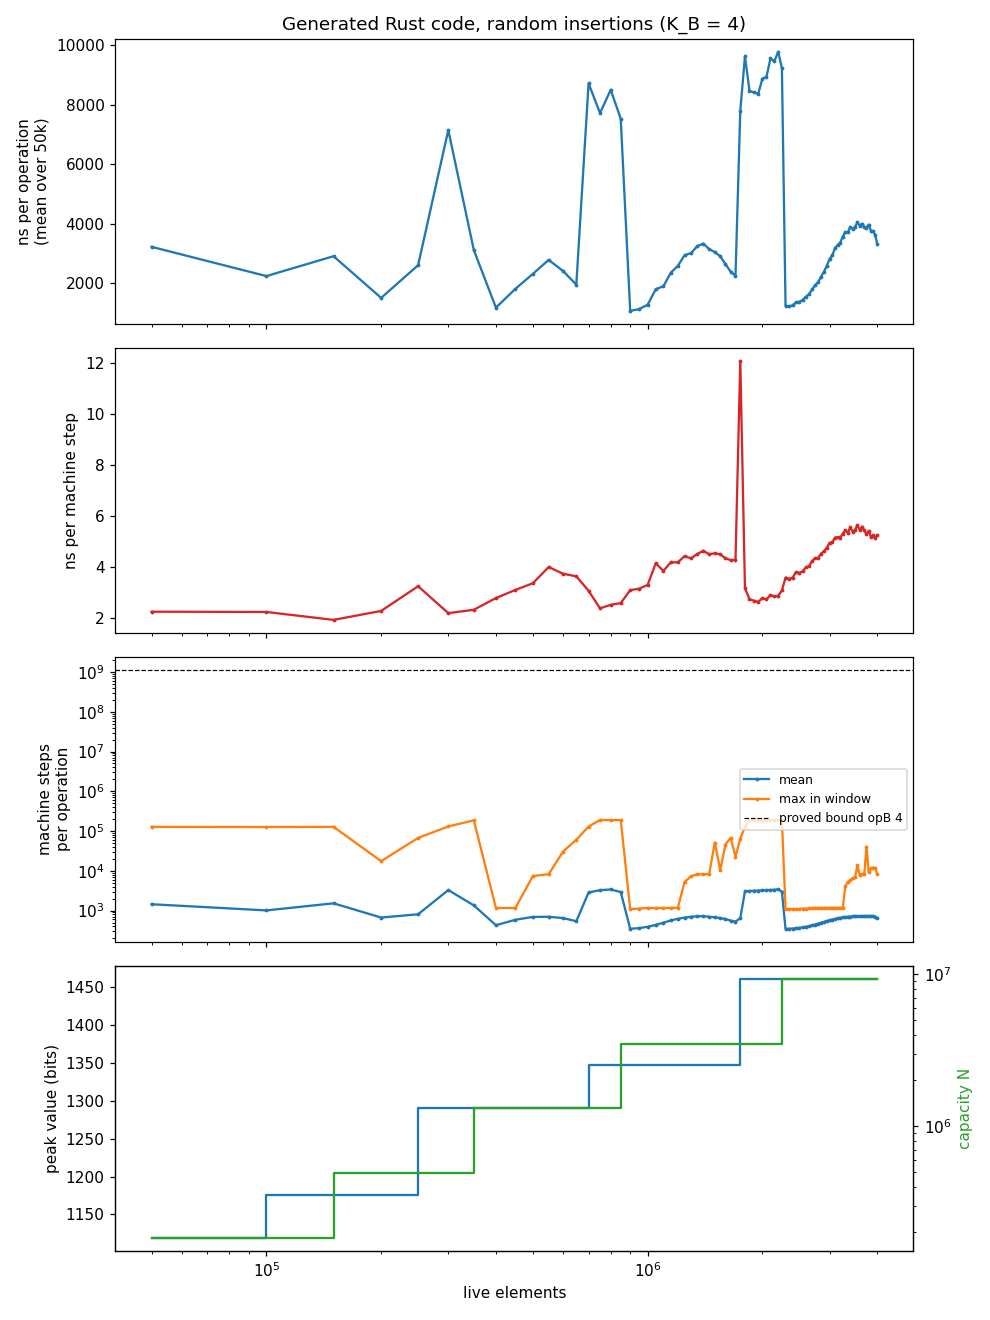
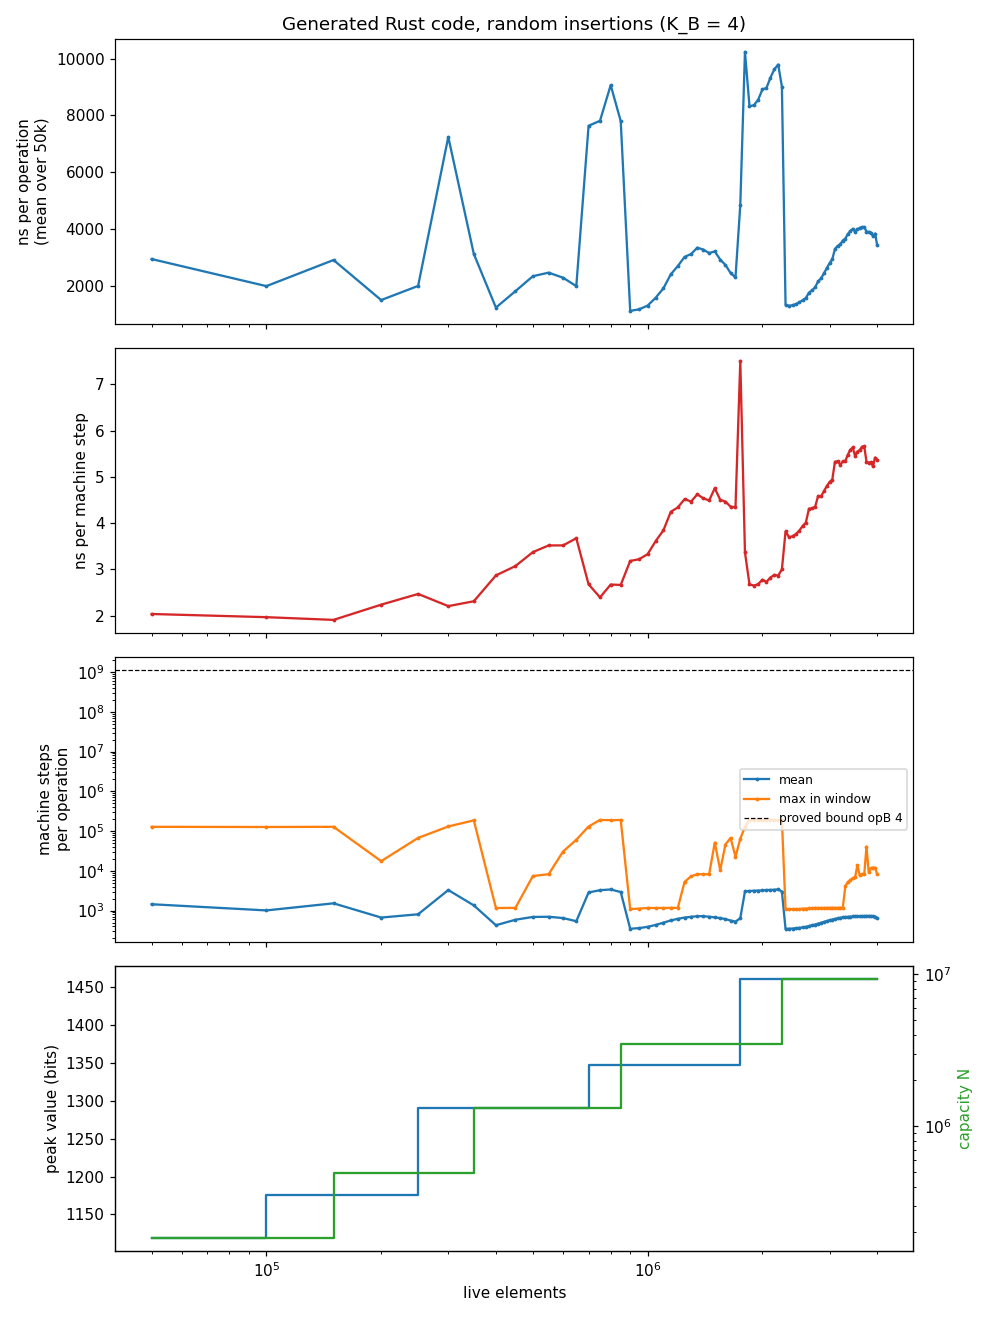
Rust: blocks allocated on first write (memory follows the cells used); results: trace replay, growth, memory use

diff --git a/rust/src/rt.rs b/rust/src/rt.rs
@@ -4,9 +4,10 @@
 //! * A word is a natural number of arbitrary size (`W`): a `u64`, or a `BigUint` above it.
 //! * An array has a capacity; an access at an index beyond it is a machine error (a panic),
 //!   and so is a subtraction below 0. The proofs show that neither happens.
-//! * `alloc` gives an array a capacity with every cell reading 0. The cells are a `Vec<u64>`
-//!   allocated zeroed (the operating system provides zero pages lazily); a cell holding a value
-//!   of 2^63 or more refers to the array's table of large values.
+//! * `alloc` gives an array a capacity with every cell reading 0. The cells live in blocks of
+//!   `BLOCK` cells, each allocated when first written (an unwritten block reads 0), so memory
+//!   follows the cells actually used, not the capacities. A cell holding a value of 2^63 or more
+//!   refers to the array's table of large values.
 //! * `m.cost` counts the machine's steps; `m.peak` is the bit length of the largest value
 //!   computed so far (`State.peak`).
 
@@ -98,9 +99,31 @@ pub enum Uop {
 
 const TAG: u64 = 1 << 63;
 
+/// Cells per block (32 KB).
+pub const BLOCK: usize = 4096;
+
 struct Arr {
-    cells: Vec<u64>,
+    cap: usize,
+    blocks: Vec<Option<Box<[u64; BLOCK]>>>,
     big: Vec<BigUint>,
+}
+
+impl Arr {
+    fn new(cap: usize) -> Arr {
+        Arr { cap, blocks: (0..cap.div_ceil(BLOCK)).map(|_| None).collect(), big: Vec::new() }
+    }
+    #[inline]
+    fn get(&self, i: usize) -> u64 {
+        match &self.blocks[i / BLOCK] {
+            Some(b) => b[i % BLOCK],
+            None => 0,
+        }
+    }
+    #[inline]
+    fn set(&mut self, i: usize, c: u64) {
+        let b = self.blocks[i / BLOCK].get_or_insert_with(|| Box::new([0u64; BLOCK]));
+        b[i % BLOCK] = c;
+    }
 }
 
 /// The machine's memory, step counter and peak.
@@ -113,7 +136,7 @@ pub struct M {
 impl M {
     pub fn new() -> M {
         M {
-            arrs: (0..NARR).map(|_| Arr { cells: Vec::new(), big: Vec::new() }).collect(),
+            arrs: (0..NARR).map(|_| Arr::new(0)).collect(),
             cost: 0,
             peak: 0,
         }
@@ -121,12 +144,21 @@ impl M {
     /// Read cell `i` of machine array `arr` (for monitoring; not used by the program).
     pub fn peek(&self, arr: u64, i: usize) -> W {
         let a = ARRS.iter().position(|&x| x == arr).expect("array used by the program");
-        let c = self.arrs[a].cells[i];
+        let c = self.arrs[a].get(i);
         if c & TAG == 0 { W::S(c) } else { norm(self.arrs[a].big[(c & !TAG) as usize].clone()) }
     }
-    /// The number of cells allocated in all arrays.
+    /// The capacity of machine array `arr` (for monitoring).
+    pub fn cap(&self, arr: u64) -> usize {
+        let a = ARRS.iter().position(|&x| x == arr).expect("array used by the program");
+        self.arrs[a].cap
+    }
+    /// The total capacity of all arrays (the machine's allocated cells).
     pub fn cells(&self) -> usize {
-        self.arrs.iter().map(|a| a.cells.len()).sum()
+        self.arrs.iter().map(|a| a.cap).sum()
+    }
+    /// The cells in blocks actually allocated (memory in use, without the tables of large values).
+    pub fn resident(&self) -> usize {
+        self.arrs.iter().map(|a| a.blocks.iter().filter(|b| b.is_some()).count() * BLOCK).sum()
     }
 }
 
@@ -148,14 +180,14 @@ pub fn pk(v: W, m: &mut M) -> W {
 
 fn index(i: &W, a: usize, m: &M) -> usize {
     match i {
-        W::S(v) if (*v as usize) < m.arrs[a].cells.len() => *v as usize,
-        _ => panic!("machine error: access at {:?} beyond the capacity {} of array {}", i, m.arrs[a].cells.len(), ARRS[a]),
+        W::S(v) if (*v as usize) < m.arrs[a].cap => *v as usize,
+        _ => panic!("machine error: access at {:?} beyond the capacity {} of array {}", i, m.arrs[a].cap, ARRS[a]),
     }
 }
 
 pub fn load(a: usize, i: W, m: &mut M) -> W {
     let ix = index(&i, a, m);
-    let c = m.arrs[a].cells[ix];
+    let c = m.arrs[a].get(ix);
     let v = if c & TAG == 0 { W::S(c) } else { norm(m.arrs[a].big[(c & !TAG) as usize].clone()) };
     pk(v, m)
 }
@@ -163,8 +195,8 @@ pub fn load(a: usize, i: W, m: &mut M) -> W {
 pub fn store(a: usize, i: W, v: W, m: &mut M) {
     let ix = index(&i, a, m);
     let arr = &mut m.arrs[a];
-    let old = arr.cells[ix];
-    arr.cells[ix] = match v {
+    let old = arr.get(ix);
+    let c = match v {
         W::S(x) if x < TAG => x,
         v => {
             let b = v.to_big();
@@ -177,11 +209,12 @@ pub fn store(a: usize, i: W, v: W, m: &mut M) {
             }
         }
     };
+    arr.set(ix, c);
 }
 
 pub fn alloc(a: usize, k: W, m: &mut M) {
     let n = k.as_u64() as usize;
-    m.arrs[a] = Arr { cells: vec![0u64; n], big: Vec::new() };
+    m.arrs[a] = Arr::new(n);
 }
 
 fn shl(a: &W, b: &W) -> W {

diff --git a/rust/src/bin/usage.rs b/rust/src/bin/usage.rs
@@ -1,0 +1,34 @@
+//! How much of the reserved memory a core uses: grow by random insertions and, at each checkpoint,
+//! read the current core's record counts and list lengths from the machine arrays.
+//!
+//!     usage
+
+use om::Om;
+
+fn main() {
+    let mut seed: u64 = 0x9E3779B97F4A7C15 | 1;
+    let mut rnd = move || { seed ^= seed << 13; seed ^= seed >> 7; seed ^= seed << 17; seed };
+    let mut om = Om::new(4);
+    let mut live: Vec<u64> = Vec::new();
+    println!("{:>9} {:>9} | {:>8} {:>8} | {:>7} {:>9} | max list length: children table inTab side cin | cells: capacities, in use",
+        "live", "N", "elements", "chunks", "nodes", "node cap");
+    for &target in &[10_000usize, 100_000, 1_000_000, 4_000_000] {
+        while live.len() < target {
+            let h = if live.is_empty() { om.insert_first() } else {
+                let x = live[(rnd() % live.len() as u64) as usize];
+                om.insert_after(x)
+            };
+            live.push(h);
+        }
+        let p = om.m.peek(2000, 0).as_u64();
+        let base = 1000 * p;
+        let n = om.capacity();
+        let sz = |t: u64| om.m.peek(base + 100 + t, 0).as_u64();
+        let (ne, nc, nn) = (sz(0), sz(2), sz(3));
+        let ncap = om.m.cap(base + 60);
+        let maxlen = |k: u64, recs: u64| (0..recs as usize).map(|i| om.m.peek(base + 132 + 3 * k, i).as_u64()).max().unwrap_or(0);
+        println!("{:>9} {:>9} | {:>8} {:>8} | {:>7} {:>9} | {:>8} {:>5} {:>5} {:>4} {:>3} | {} {}",
+            live.len(), n, ne, nc, nn, ncap,
+            maxlen(0, nn), maxlen(1, nn), maxlen(2, nn), maxlen(3, nn), maxlen(4, nc), om.m.cells(), om.m.resident());
+    }
+}

diff --git a/rust/src/bin/check.rs b/rust/src/bin/check.rs
@@ -86,6 +86,6 @@ fn main() {
     println!("  steps per operation: max {maxc} ({maxop}), mean {:.0}", sumc as f64 / ops as f64);
     println!("  bound opB 4 = 1133561742; max / bound = {:.2e}", maxc as f64 / 1133561742.0);
     println!("  peak value: {} bits", om.m.peak);
-    println!("  allocated cells {}", om.m.cells());
+    println!("  allocated cells {} (capacities), {} in blocks in use", om.m.cells(), om.m.resident());
     println!("  time {:.2?} ({:.2} us per operation)", dt, dt.as_secs_f64() * 1e6 / ops as f64);
 }

diff --git a/rust/README.md b/rust/README.md
@@ -21,3 +21,40 @@ cargo run --release --bin check -- 200000 7 grow    # ops, seed, mode (grow | mi
 
 `check` runs random operation sequences against a plain list implementation of the
 specification and reports the steps per operation, the peak bit length, and the memory.
+
+```
+cargo run --release --bin replay -- TRACE.jsonl...       # prototype traces (prototype/trace.py)
+cargo run --release --bin growth -- 4000000 50000 1      # results/growth.csv; plot: results/plot_growth.py
+cargo run --release --bin usage                          # memory in use against the capacities
+```
+
+## Results (2026-10-16)
+
+**Correctness.** The generated code returned the specification's answers on every operation
+tried:
+* 620,000 random operations (`check`, modes grow, mix and churn);
+* the 23 stress workloads of the prototype, 200,000 updates each with an order query after each
+  (`trace.py --preset proof`; 9.2 million records; `results/replay_workloads.txt`);
+* 1,100 fuzz traces (random operation mixes with wipes, bursts and hammering; 4.5 million records;
+  `K_B` raised to 4 where the trace used 2 or 3; the answers do not depend on `K_B`).
+
+The prototype's `proof` preset predates M5's parameters, so only the answers the specification
+determines are compared (handles and order answers), not the prototype's internal keys.
+
+**Steps.** The largest number of machine steps for one update was 200,469 (workload
+`harmonic_half`), against the proved bound `opB 4 = 1,133,561,742`: the bound is about 10⁴ times
+loose on these workloads. An order query always took 65 steps.
+
+**Word size.** The largest value computed grows with the capacity, as expected: 552 bits for a few
+live elements, 1,233 at 160,000, 1,461 at 4 million (`L = 24`). The steps of the staircase come
+when a rebuild starts (`results/growth.png`, bottom).
+
+**Time.** 1–4 µs per operation (3.8 µs on average while growing to 4 million elements). The time
+per machine step grows from about 2 to 5 ns over that range, mostly from cache misses as the
+structure grows; it drops after each swap.
+
+**Memory.** The proved capacities are far larger than what is used. At 4 million elements: 1,988
+top-structure nodes against a node capacity of 9.2 million, and lists of at most 21 entries in
+slots of 162 or 322 (`results/usage.txt`). The arrays' capacities total 33.8 billion cells, but the
+runtime allocates blocks of 4,096 cells only when they are first written, so 57 million cells are in
+use (about 14 per element; resident memory 0.9 GB).
